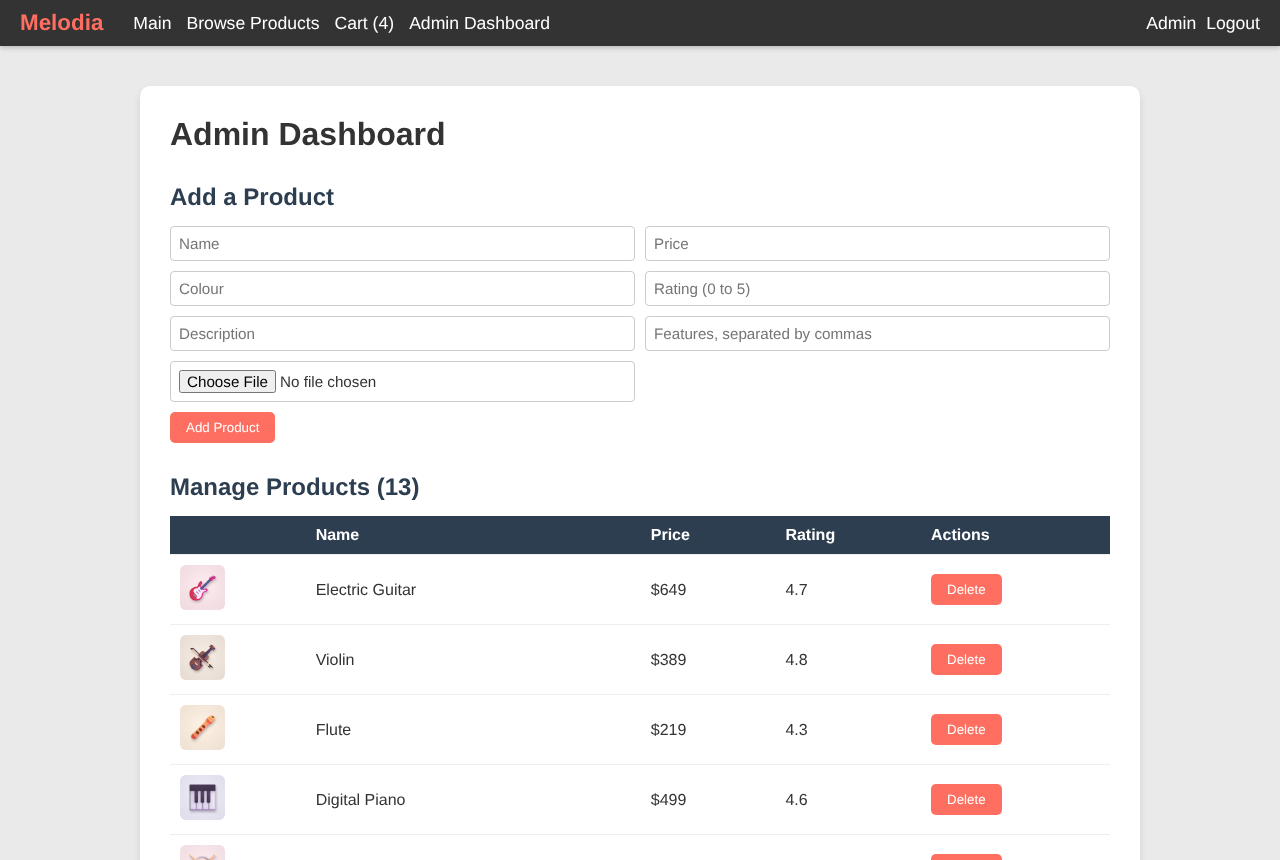
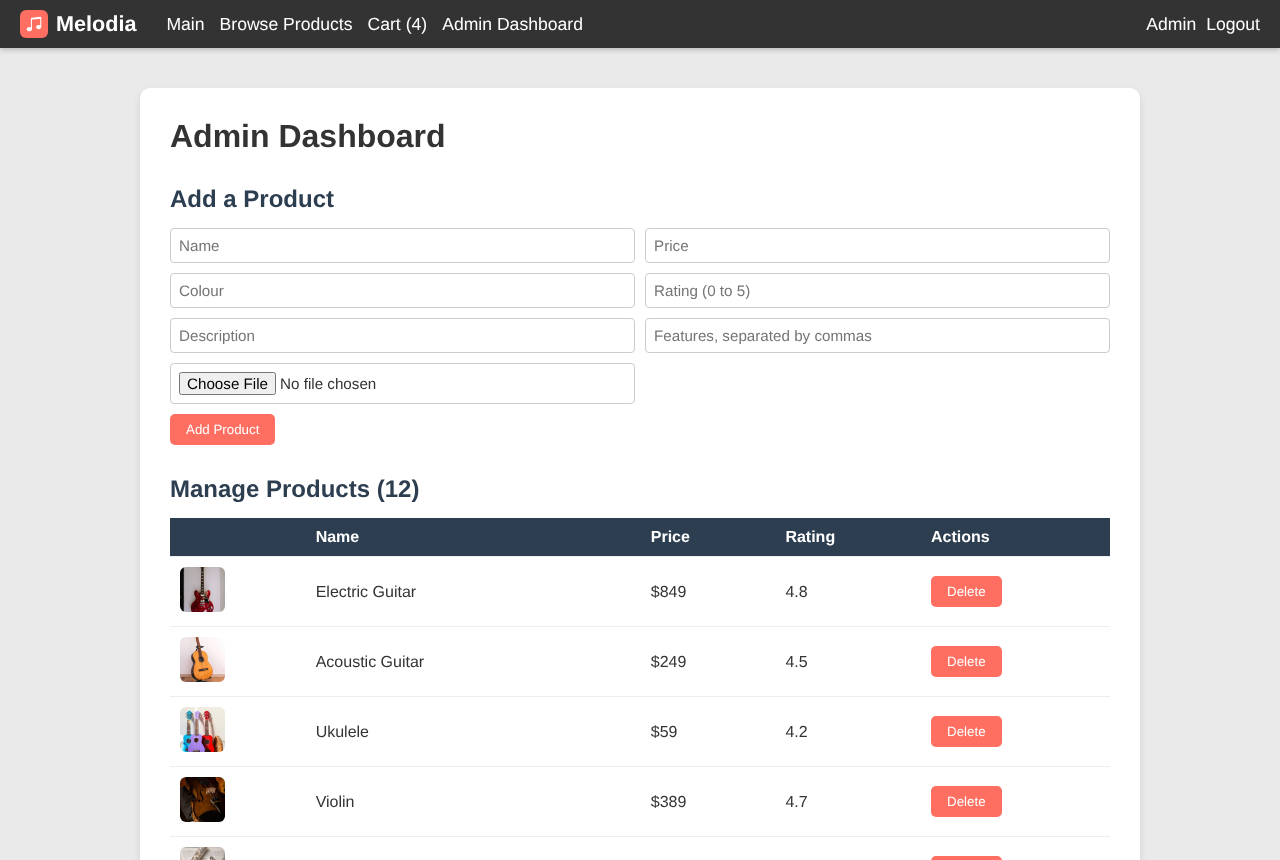
Update README screenshots

diff --git a/README.md b/README.md
@@ -38,7 +38,7 @@ When an order is saved, the server only takes the product ids and quantities fro
 
 The client is a React app with React Router. App.js keeps the cart and the logged in user in its state and in localStorage, and passes them to the pages. The pages use axios to call the server, and the styles are written in SCSS.
 
-The instrument pictures are from Microsoft's [Fluent Emoji](https://github.com/microsoft/fluentui-emoji) (MIT licence).
+The product photos are free stock photos from [Pexels](https://www.pexels.com).
 
 ## How to run it
 
@@ -55,7 +55,7 @@ npm run seed
 npm start
 ```
 
-`npm run seed` adds 13 instruments to the database. Then start the client in a second terminal:
+`npm run seed` adds 12 products to the database. Then start the client in a second terminal:
 
 ```
 cd client
